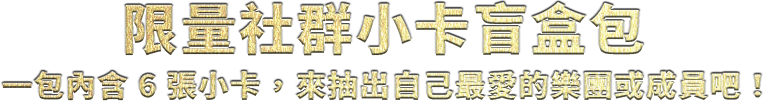
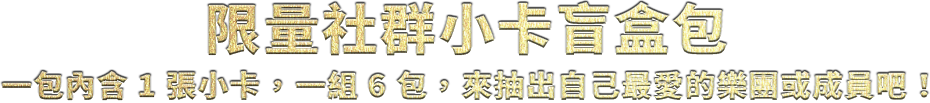
更新偶像小卡標題

diff --git a/packages/client/src/components/dialogs/reward/helper.tsx b/packages/client/src/components/dialogs/reward/helper.tsx
@@ -33,7 +33,7 @@ const meta: Record<string, number[]> = {
   "paid-ball-title.png": [512, 58],
   "paid-box-title.png": [601, 59],
   "paid-idol-box-title.png": [539, 103],
-  "paid-idol-card-title.png": [763, 103],
+  "paid-idol-card-title.png": [930, 103],
   "paid-my-card-150-title.png": [937, 65],
   "paid-my-card-300-title.png": [937, 65],
   "qiyana-skin-2019-title.png": [800, 65],
@@ -51,11 +51,12 @@ const meta: Record<string, number[]> = {
 
 export const getTitleSrc = (key: string) => {
   const fileName = `${key.replace("free-", "paid-")}-title.png`;
+  const queryString = key.includes("idol-card") ? "?t=67" : "";
   const width = meta[fileName]?.[0] || undefined;
   const height = meta[fileName]?.[1] || undefined;
 
   return {
-    src: imgUri(`/rewards/titles/${fileName}`),
+    src: imgUri(`/rewards/titles/${fileName}${queryString}`),
     width,
     height,
   };

diff --git a/packages/admin/src/components/UserTable.tsx b/packages/admin/src/components/UserTable.tsx
@@ -17,6 +17,7 @@ import {
   renderBoolean,
   renderDateTime,
   renderNullable,
+  renderNumber,
   showTotal,
 } from "./tableHelper";
 import { fetchAllData } from "../apis/fetchAllData";
@@ -151,7 +152,7 @@ function UserTable() {
     { dataIndex: "createdAt", title: "註冊時間", render: renderDateTime },
     { dataIndex: "isCompleted", title: "完成註冊", render: renderBoolean },
     { dataIndex: "riotId", title: "Riot ID" },
-    { dataIndex: "score", title: "榮譽積分" },
+    { dataIndex: "score", title: "榮譽積分", render: renderNumber },
     {
       key: "inviter",
       title: "邀請者",
